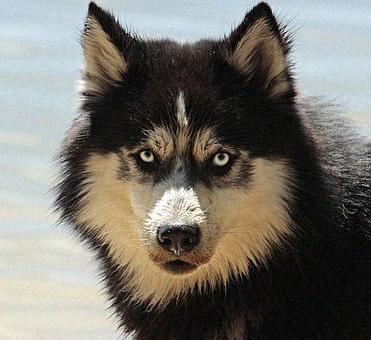
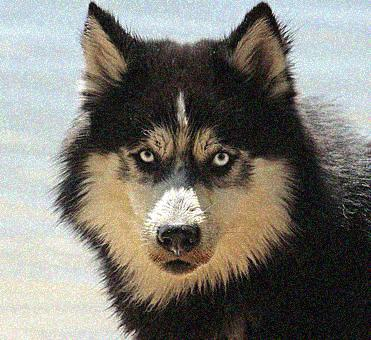
adding some code to add noise to images

diff --git a/templates/landing.html b/templates/landing.html
@@ -8,6 +8,19 @@
   <style>
   </style>
 </head>
+<script src="//ajax.googleapis.com/ajax/libs/jquery/1.9.1/jquery.min.js"></script>
+<script type=text/javascript>
+        $(function() {
+          $('a#test').bind('click', function() {
+            $.getJSON('/background_process_test',
+                function(data) {
+              //do nothing
+            });
+            return false;
+          });
+        });
+</script>
+
 <body>
   <div id="header"></div>
   Henlo, birb

diff --git a/main.py b/main.py
@@ -20,12 +20,40 @@ def UI_display(name=None):
 
     return render_template('landing.html', image=image_en.decode('ascii'), noise=noise_en.decode('ascii'))
 
-def generate_noise(width=256, height=256):
+# @app.route('/generate_new_noise')
+def generate_noise(width=32, height=32, scale=50/255):
     image = Image.new("RGB", (width, height), 255)
-    random_grid = list(map(lambda x: (int(random() * 256), int(random() * 256), int(random() * 256)), [0] * width * height))
+    random_grid = [*map(lambda x: (int((random() * 2 - 1) * 256 * scale), int((random() * 2 - 1) * 256 * scale), int((random() * 2 - 1) * 256 * scale)) , [0] * width * height)]
     image.putdata(random_grid)
+    print(random_grid)
     return image
+    # return random_grid
+
+# background process happening without any refreshing
+@app.route('/background_process_test')
+def background_process_test():
+    print("Hello")
+    return render_template('blank.html')
 
 if __name__ == "__main__":
-    app.run(debug=True, host='0.0.0.0')
-
+    image = Image.open('pictures/husky.jpg')
+    width, height = image.size
+    noise = generate_noise(width, height).load()
+    img = image.load()
+    for x in range(image.size[0]):
+        for y in range(image.size[1]):
+            r, g, b = img[x, y]
+            r_a, g_a, b_a = noise[x, y]
+            r += r_a 
+            g += g_a
+            b += b_a
+            if r < 0: r = 0
+            if g < 0: g = 0
+            if b < 0: b = 0
+            if r > 255: r = 255
+            if g > 255: g = 255
+            if b > 255: b = 255
+            
+            img[x, y] = (r, g, b)
+    image.save('henlo.jpg', format='JPEG')
+    # app.run(debug=True, host='0.0.0.0')
